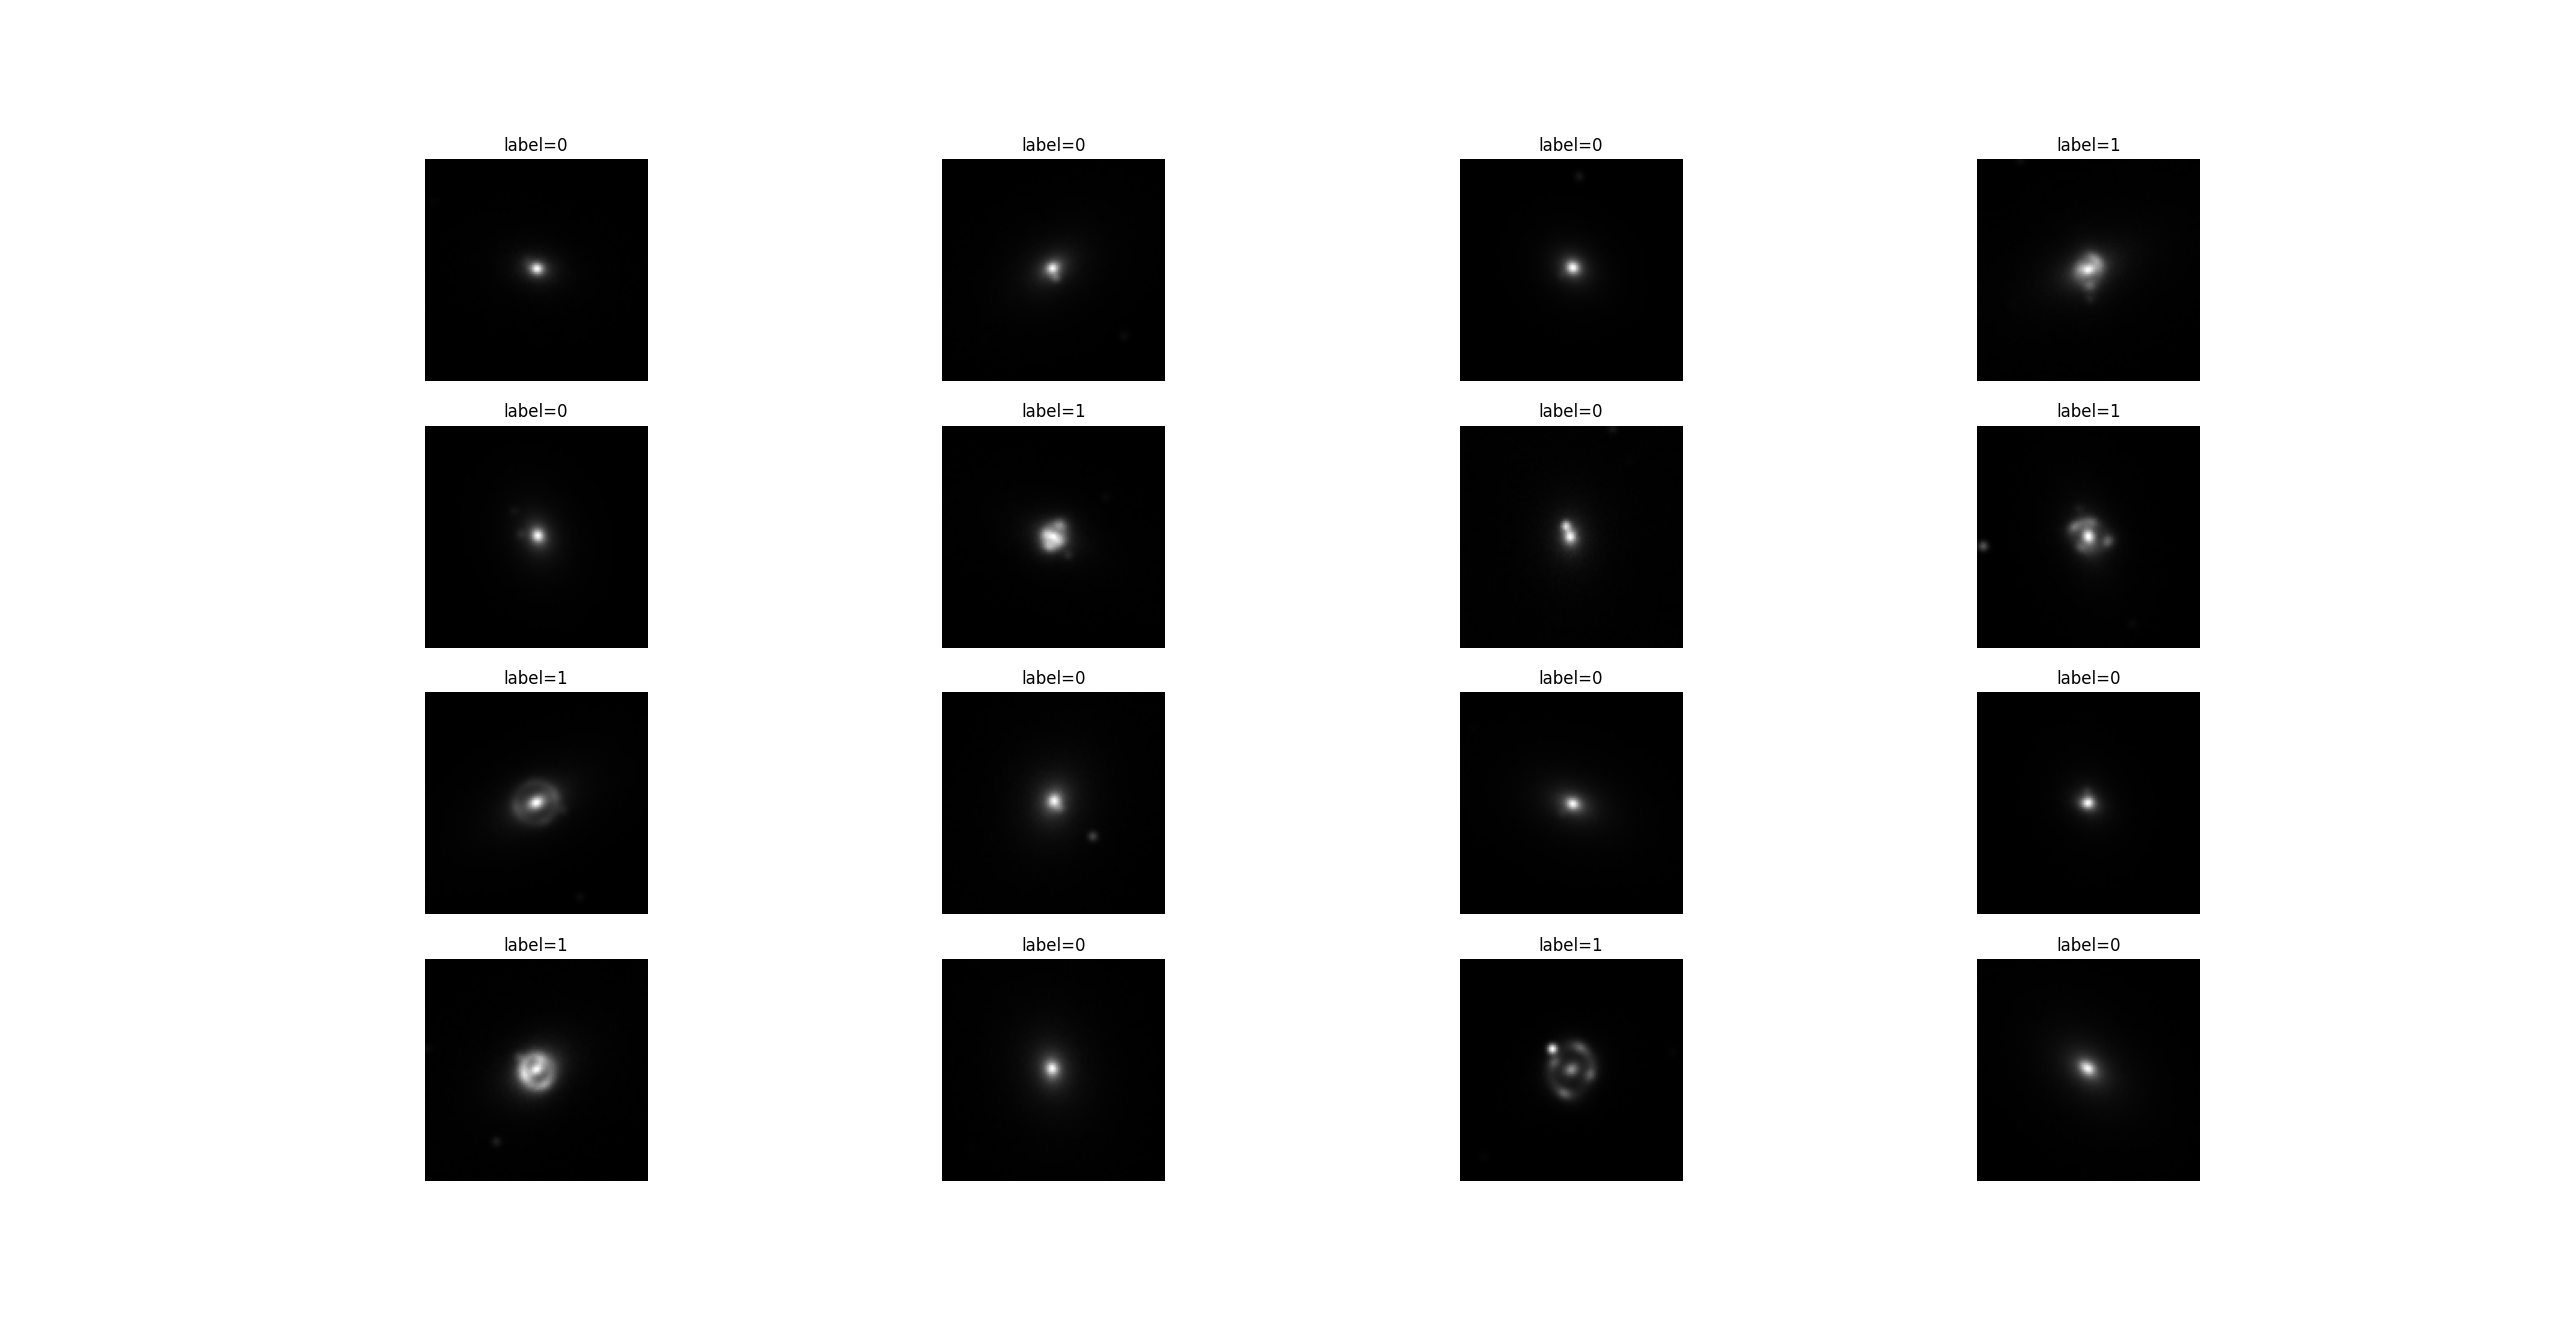
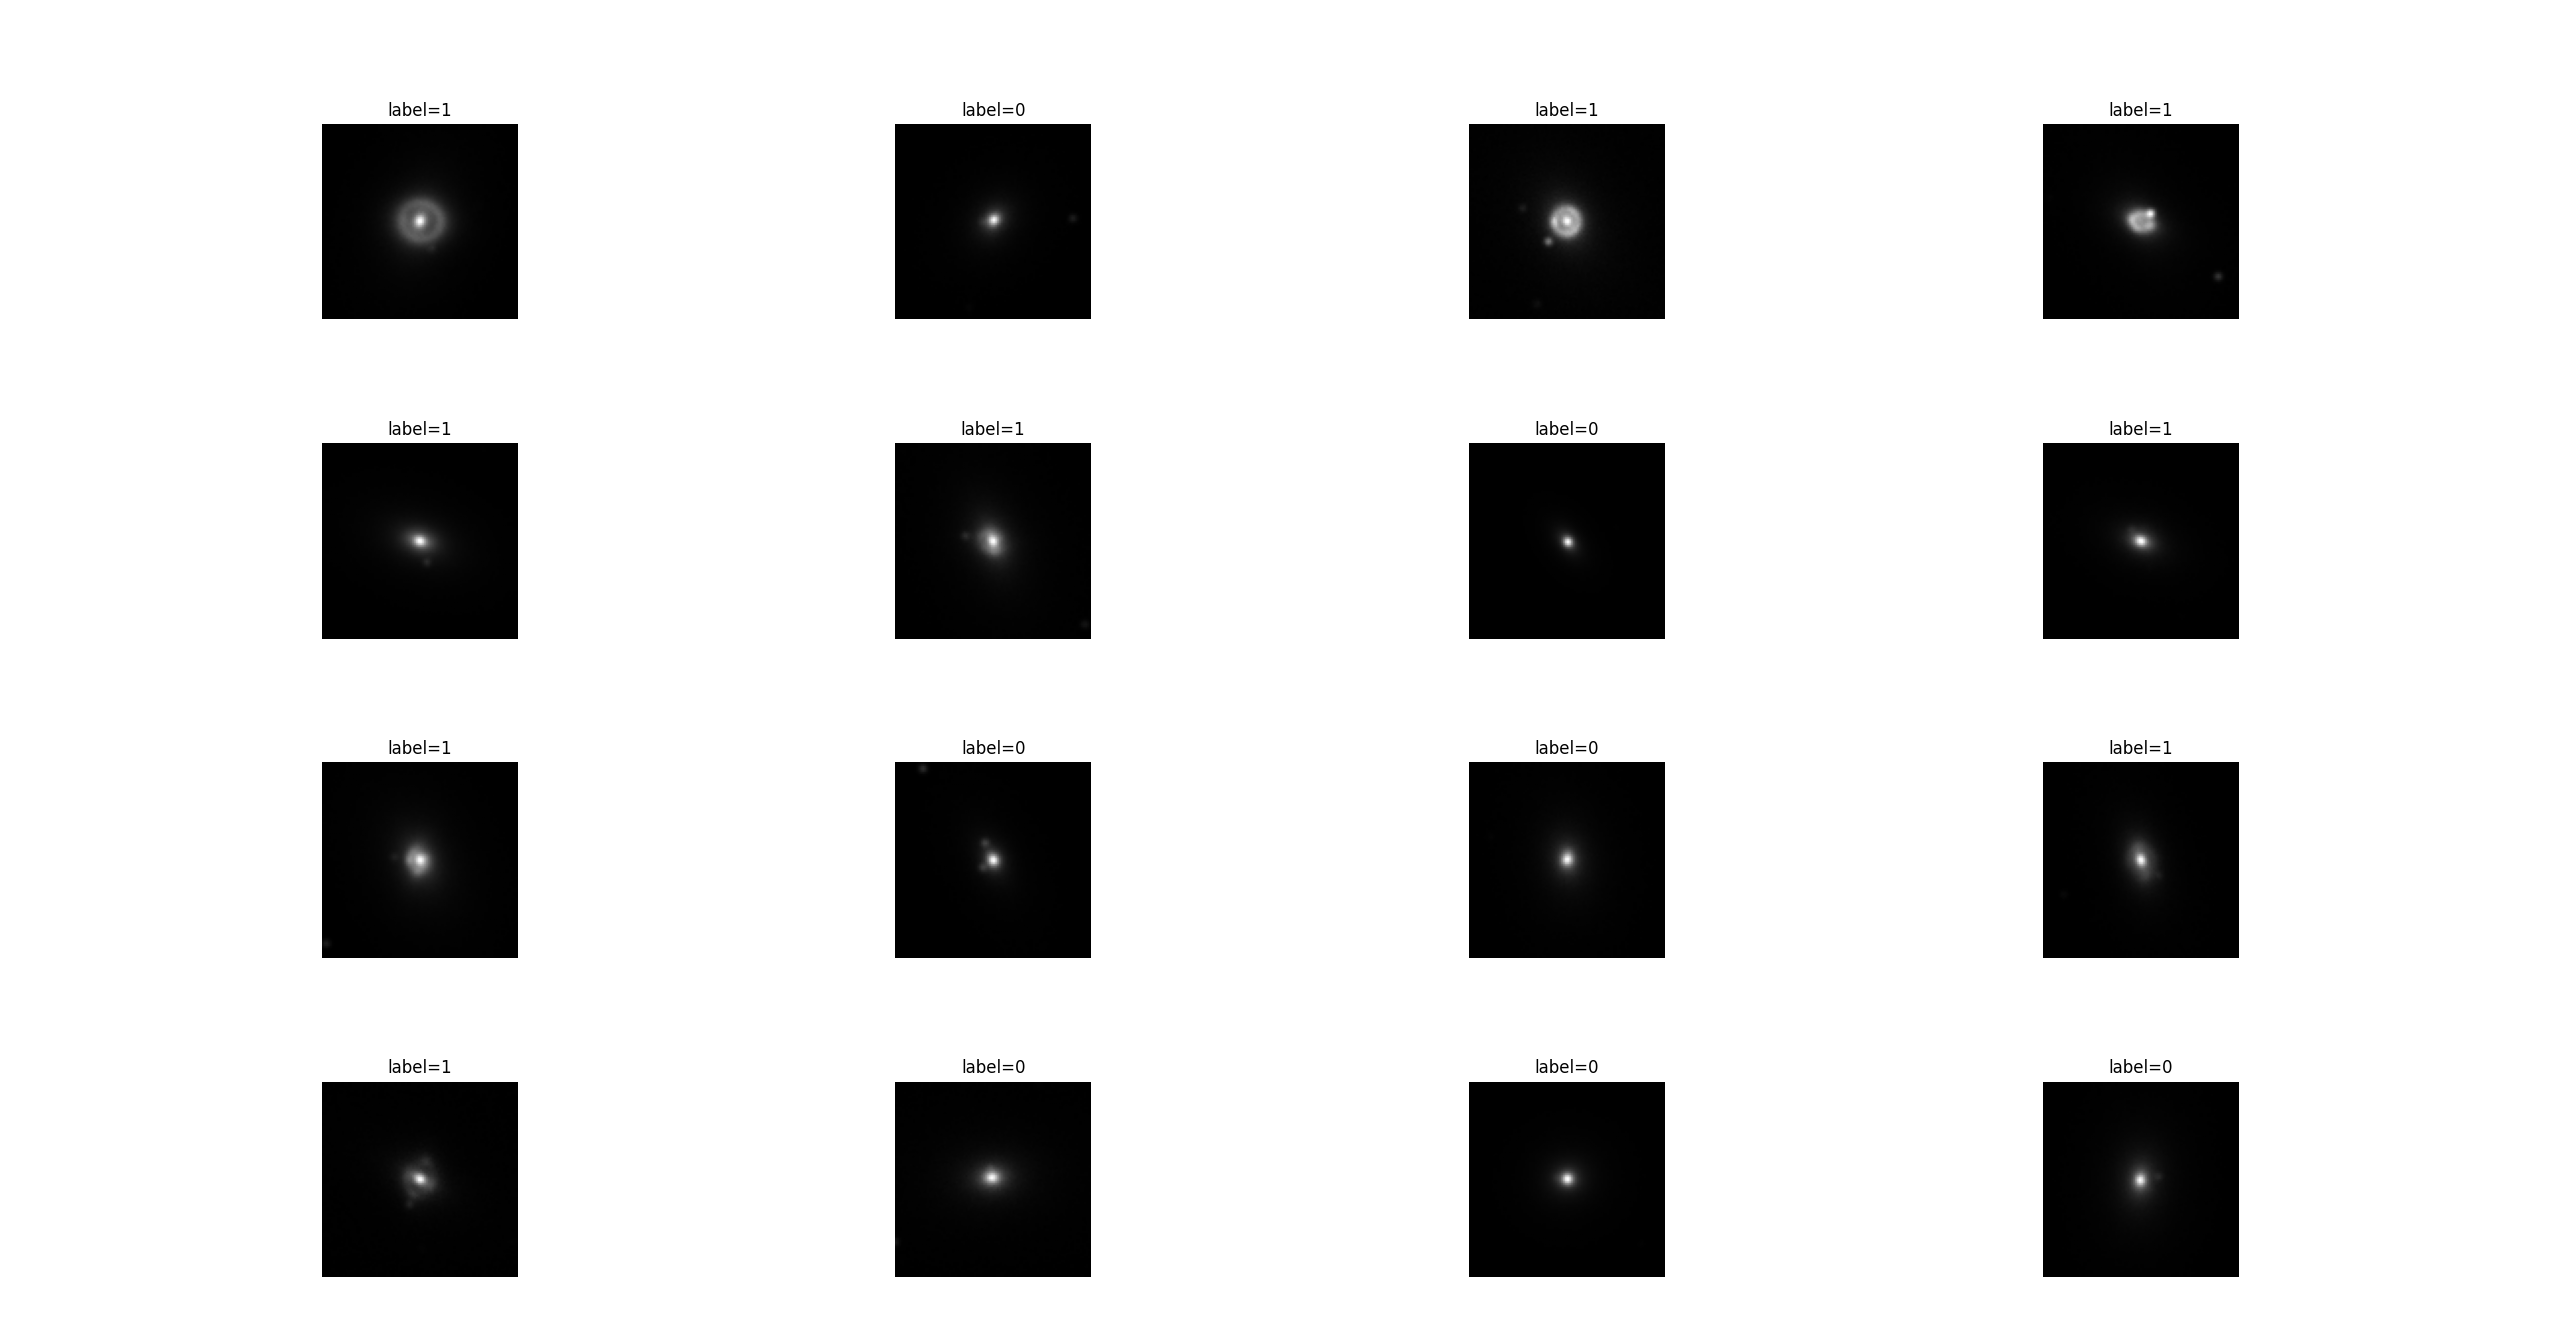
added link to image

diff --git a/README.md b/README.md
@@ -5,6 +5,7 @@ Quantum Classification for Strong Gravitation Lensing est un projet d'apprentiss
 ## Ce que contient ce répertoire
 
 Le projet contient les éléments suivants :
+
 - `src/`: Contient le code source pour le projet.
 - `notebooks/`: Contient des notebooks Jupyter pour l'exploration des librairies et la visualisation des données.
 - `data/`: Contient les données simulées pour l'entraînement et le test du modèle.
@@ -17,6 +18,7 @@ Le jeu de données utilisé dans ce projet est généré à l'aide de la librair
 
 Pour plus d'informations sur la génération du jeu de données, veuillez consulter le fichier `docs/deeplenstronomy_binary_dataset.md`.
 
+![Exemple d'image de lentille gravitationnelle](assets/dataset_samples.png)
 
 ## Contribuer à ce projet
 
